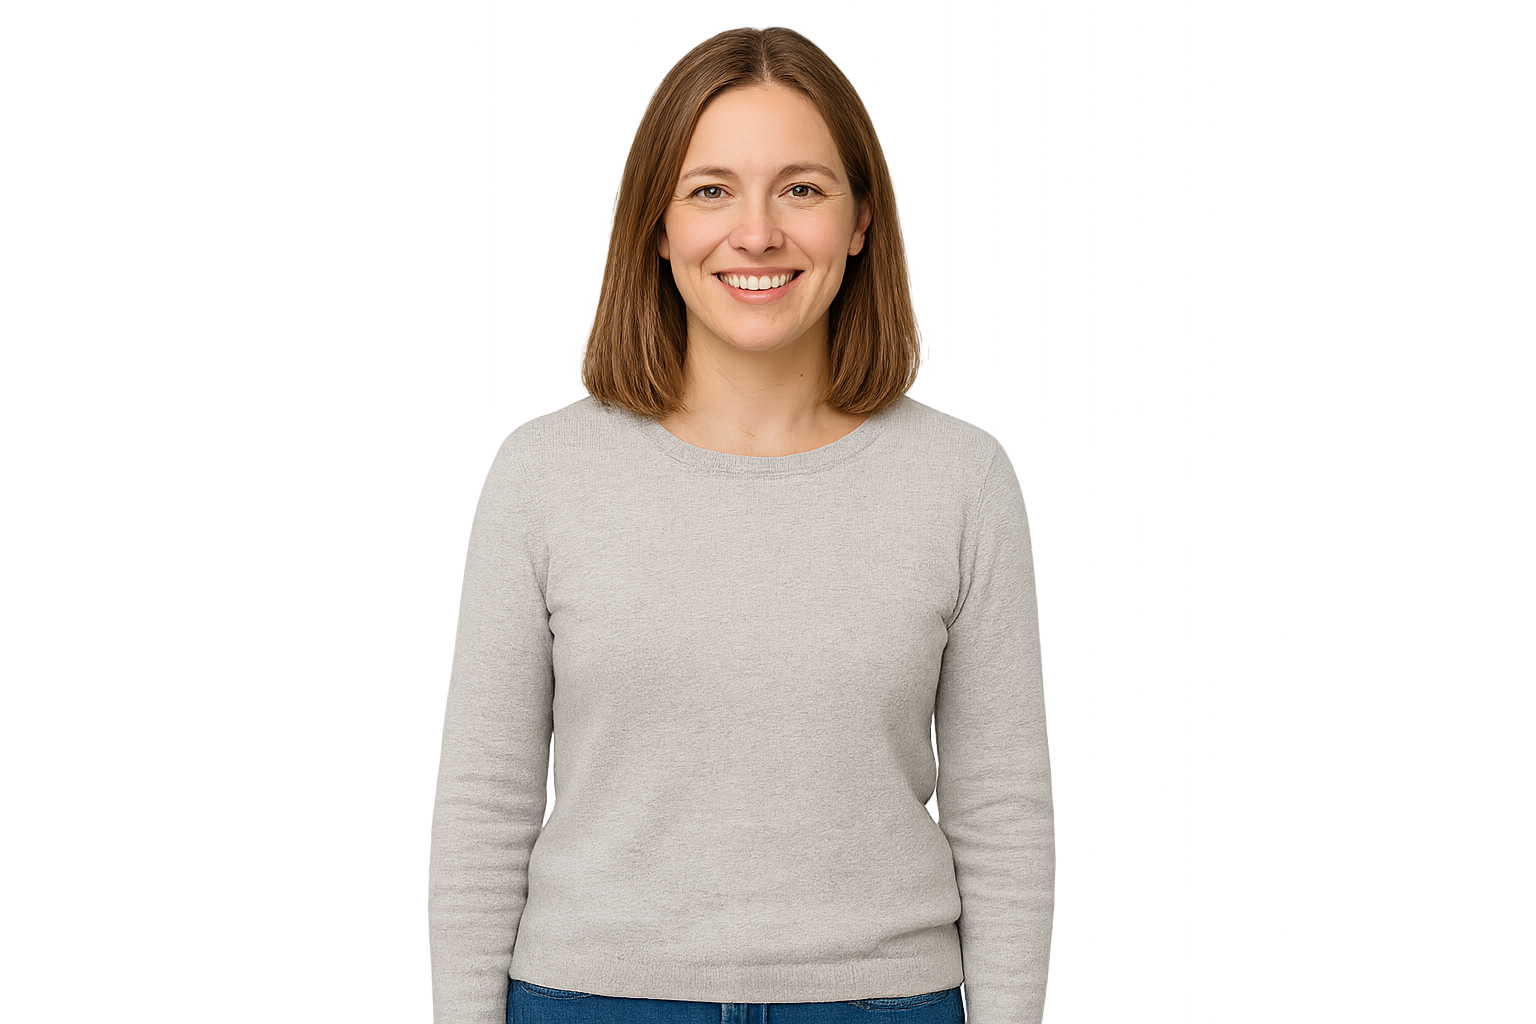
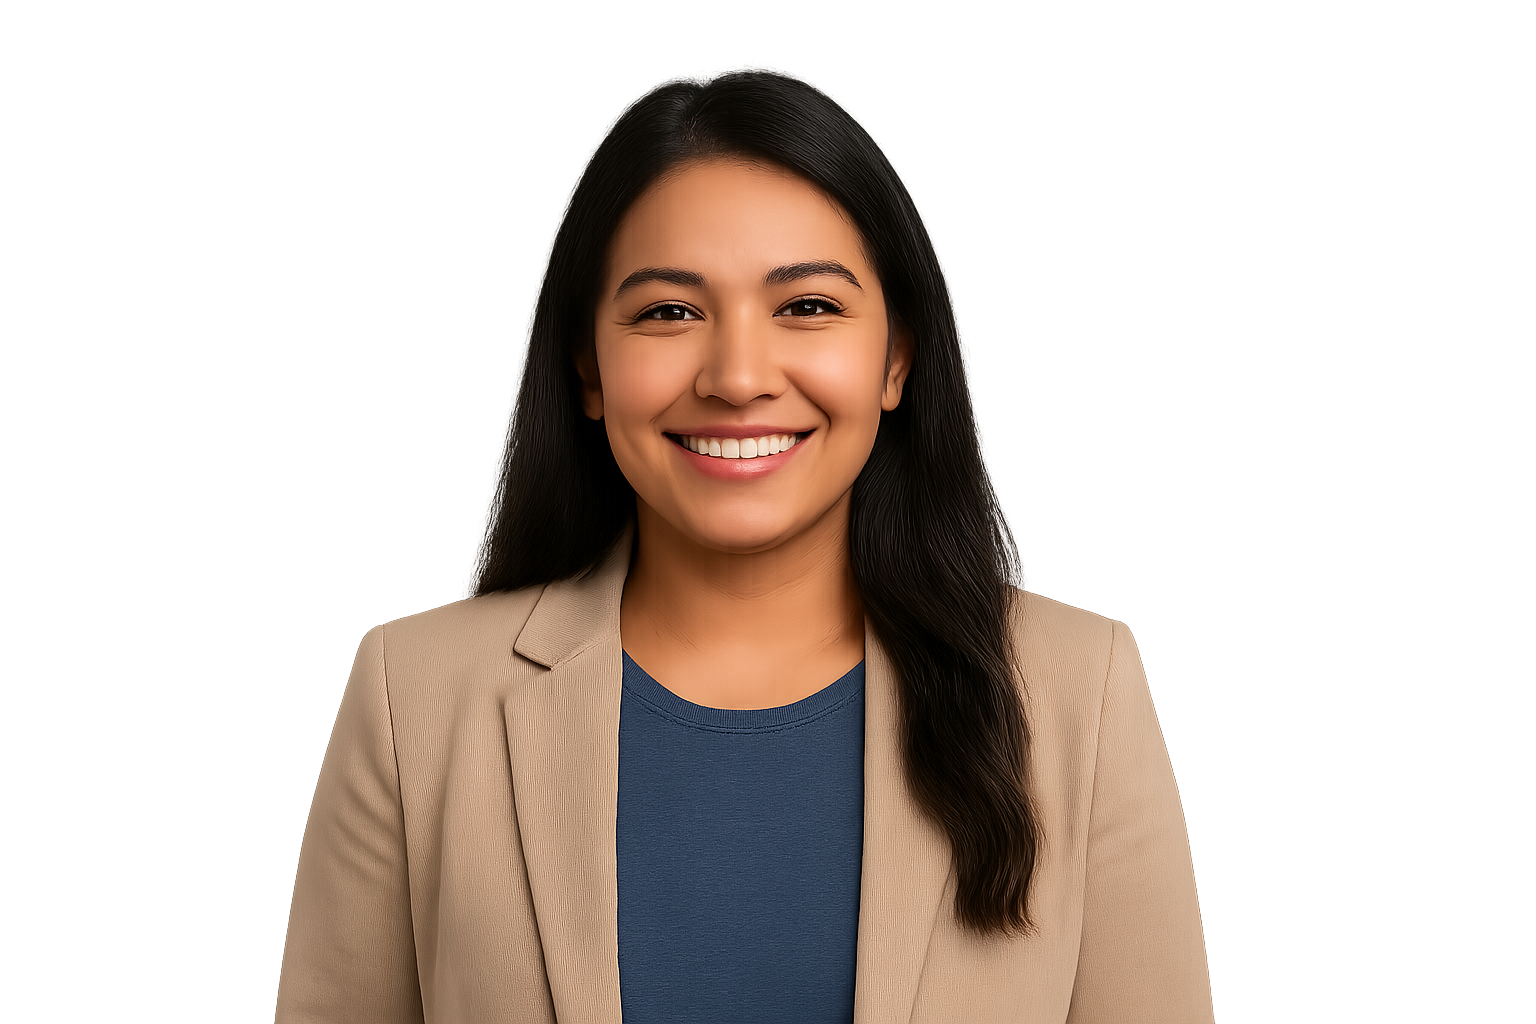
solved coworkers containers issue

diff --git a/about.html b/about.html
@@ -112,8 +112,13 @@
                 </div>
             </div>
         </div>
-        <div class="main-container">
-            <h2>Möt våra medarbetare</h2>
+        <div class="main-left-container">
+            <div class="main-left-item4">
+                <div>
+                    <h2>Möt våra medarbetare</h2>
+                </div>
+            </div>
+        </div>
             <div class="cards-container">
                 <div class="card-item1">
                     <div class="card">

diff --git a/style.css b/style.css
@@ -574,6 +574,18 @@ main {
     padding: 4em;
     background-color: #A889CB;
 }
+.main-left-item4 {
+    grid-row-start: 1;
+    grid-row-end: 2;
+    grid-column-start: 1;
+    grid-column-end: 3;
+    display: flex;
+    justify-content: center;
+    align-items: center;
+    text-align: center;
+    padding: 4em;
+    background-color: #A09797;
+}
 button {
     background-color: #fff;
     border: none;
